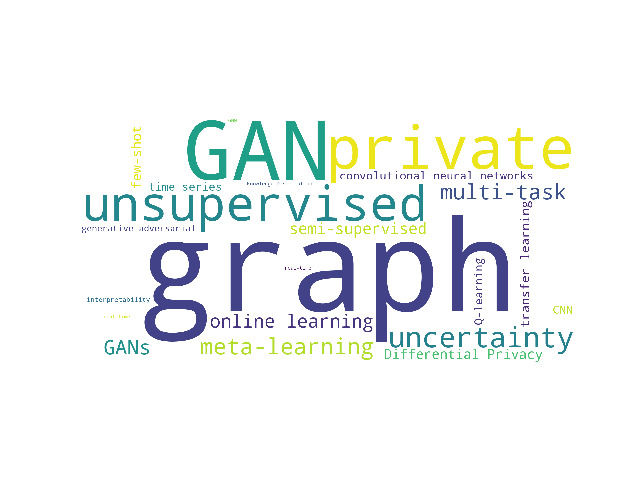
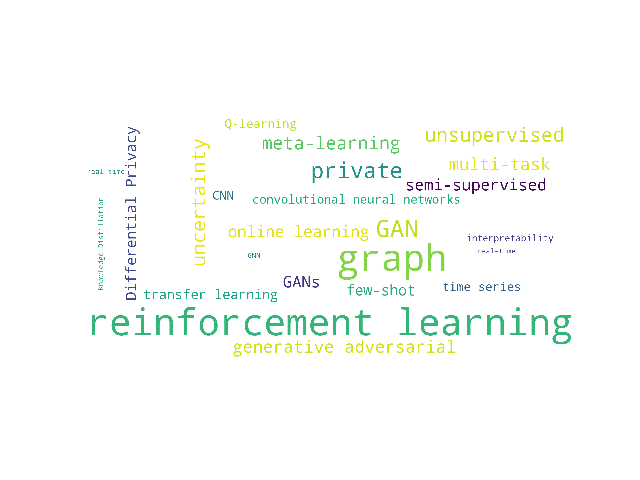
modify RL

Changed region(s): [[0.125, 0.25, 0.9062, 0.75]]

diff --git a/analysis.py b/analysis.py
@@ -35,7 +35,7 @@ for a in my_stoplist:
 # 定义topic短语词组
 topic_list = ['GNN', 'GCN', 'graph',
 'convolutional neural networks','CNN','convolutional neural networks',
-'GAN', 'GANs', "generative adversarial","generative adversarial"
+'GAN', 'GANs', "generative adversarial","generative adversarial",
 'reinforcement learning','Q-learning', 
 'online learning', "real time", "real-time",
 'Differential Privacy', "private",  

diff --git a/README.md b/README.md
@@ -41,12 +41,14 @@ To be finished...
 
 |topic|num_papers|
 |:----|:----|
+|reinforcement learning|59|
 |graph|58|
 |GAN|17|
 |private|14|
 |unsupervised|11|
 |uncertainty|11|
 |multi-task|8|
+|generative adversarial|8|
 |GANs|7|
 |online learning|7|
 |semi-supervised|7|
